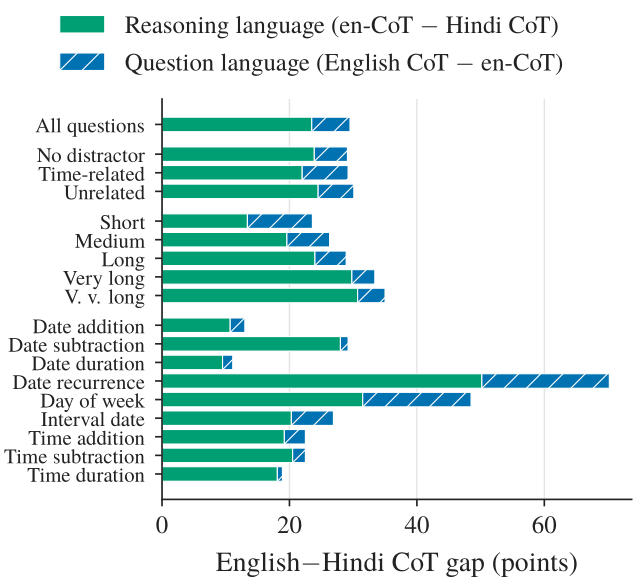
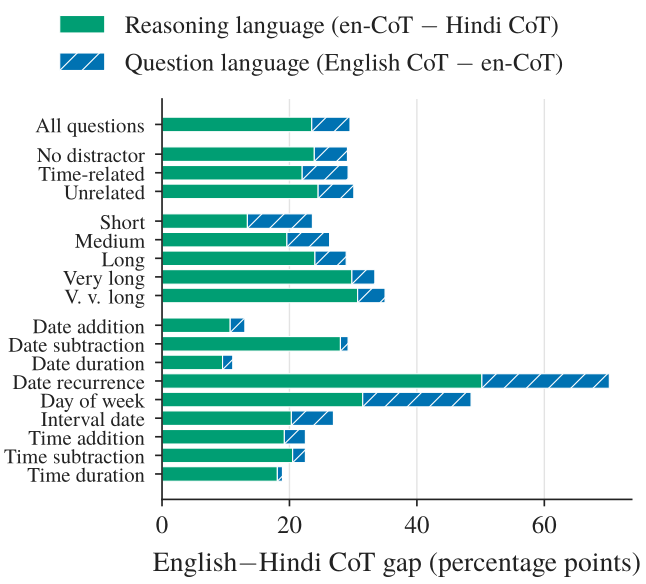
somme changes to report

diff --git a/experiments/2026-10-31_final-report/report/main.tex b/experiments/2026-10-31_final-report/report/main.tex
@@ -221,7 +221,7 @@ RQ6 & No. Removing the distractor helps a little (+5.3). & \ref{sec:intervention
 \centering
 \setlength{\tabcolsep}{4pt}
 \input{tables/baseline}
-\caption{CoT gain on all 6,750 questions, in points. Values are answered except the Strict column. Intervals on the gains are English [28.5, 30.6] and Hindi [3.6, 5.7]. Gains and gaps are computed before rounding.}
+\caption{CoT gain on all 6,750 questions, in percentage points. Values are answered except the Strict column. Intervals on the gains are English [28.5, 30.6] and Hindi [3.6, 5.7]. Gains and gaps are computed before rounding.}
 \label{tab:baseline}
 \end{table}
 
@@ -342,7 +342,7 @@ Most errors in this set are unanswered responses: 287 of the 422 wrong ones have
 \begin{figure}[t]
 \centering
 \includegraphics[width=\columnwidth]{decomposition}
-\caption{The English-Hindi CoT gap on 2,250 questions, split on one path through three conditions. No condition pairs English questions with Hindi reasoning, so the split is descriptive.}
+\caption{The English-Hindi CoT gap on 2,250 questions.}
 \label{fig:decomposition}
 \end{figure}
 

diff --git a/experiments/2026-10-31_final-report/figures/make_figures.py b/experiments/2026-10-31_final-report/figures/make_figures.py
@@ -76,7 +76,7 @@ def decomposition():
     ax.barh(y, b, 0.78, left=a, color=S.CONDITIONS["English CoT"]["color"], hatch="///", edgecolor="white", label="Question language (English CoT − en-CoT)")
     ax.set_yticks(y, [labels[c] for c in cuts], fontsize=7.5)
     ax.invert_yaxis()
-    ax.set_xlabel("English−Hindi CoT gap (points)")
+    ax.set_xlabel("English−Hindi CoT gap (percentage points)")
     ax.grid(axis="y", visible=False)
     ax.grid(axis="x", visible=True)
     ax.legend(loc="lower center", bbox_to_anchor=(0.32, 1.0), fontsize=9, ncol=1)
@@ -157,7 +157,7 @@ def interventions():
         ax.locator_params(axis="x", nbins=3)
     axes[0].set_yticks(range(6), [g.replace(", ", ": ") for g in groups], fontsize=9)
     axes[0].invert_yaxis()
-    fig.supxlabel("Difference in accuracy (points)", fontsize=9, y=-0.1)
+    fig.supxlabel("Difference in accuracy (percentage points)", fontsize=9, y=-0.1)
     fig.subplots_adjust(wspace=0.12)
     S.save(fig, OUT / "interventions")
 
